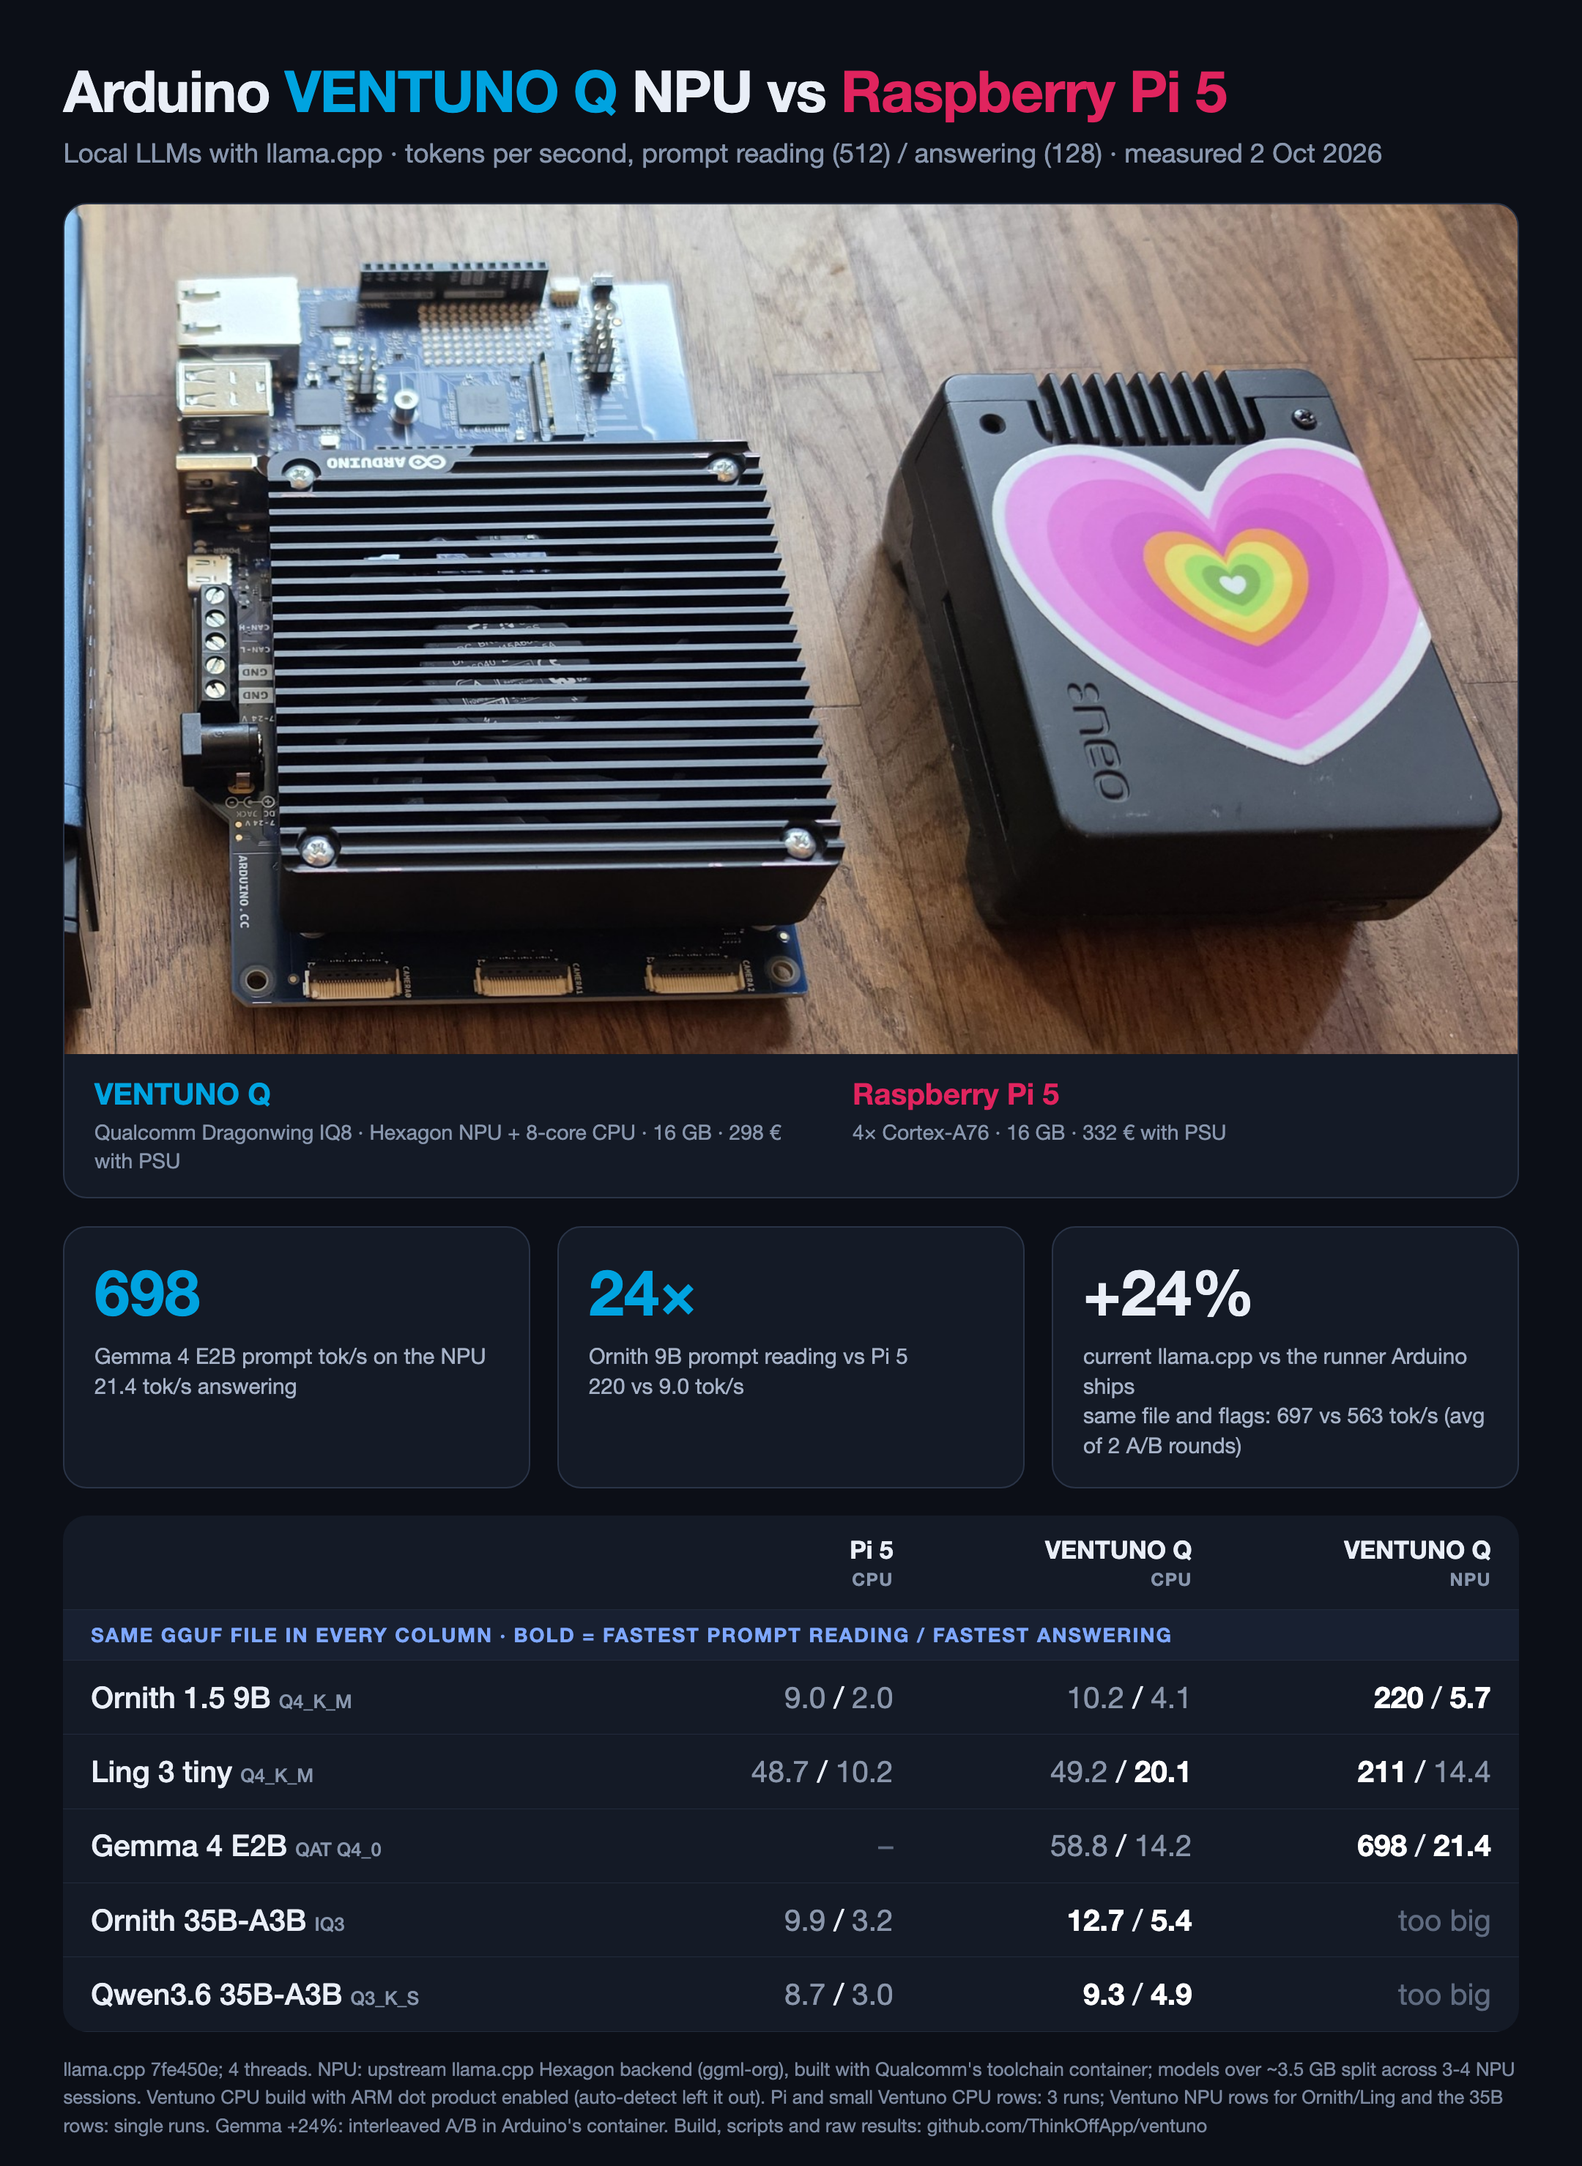
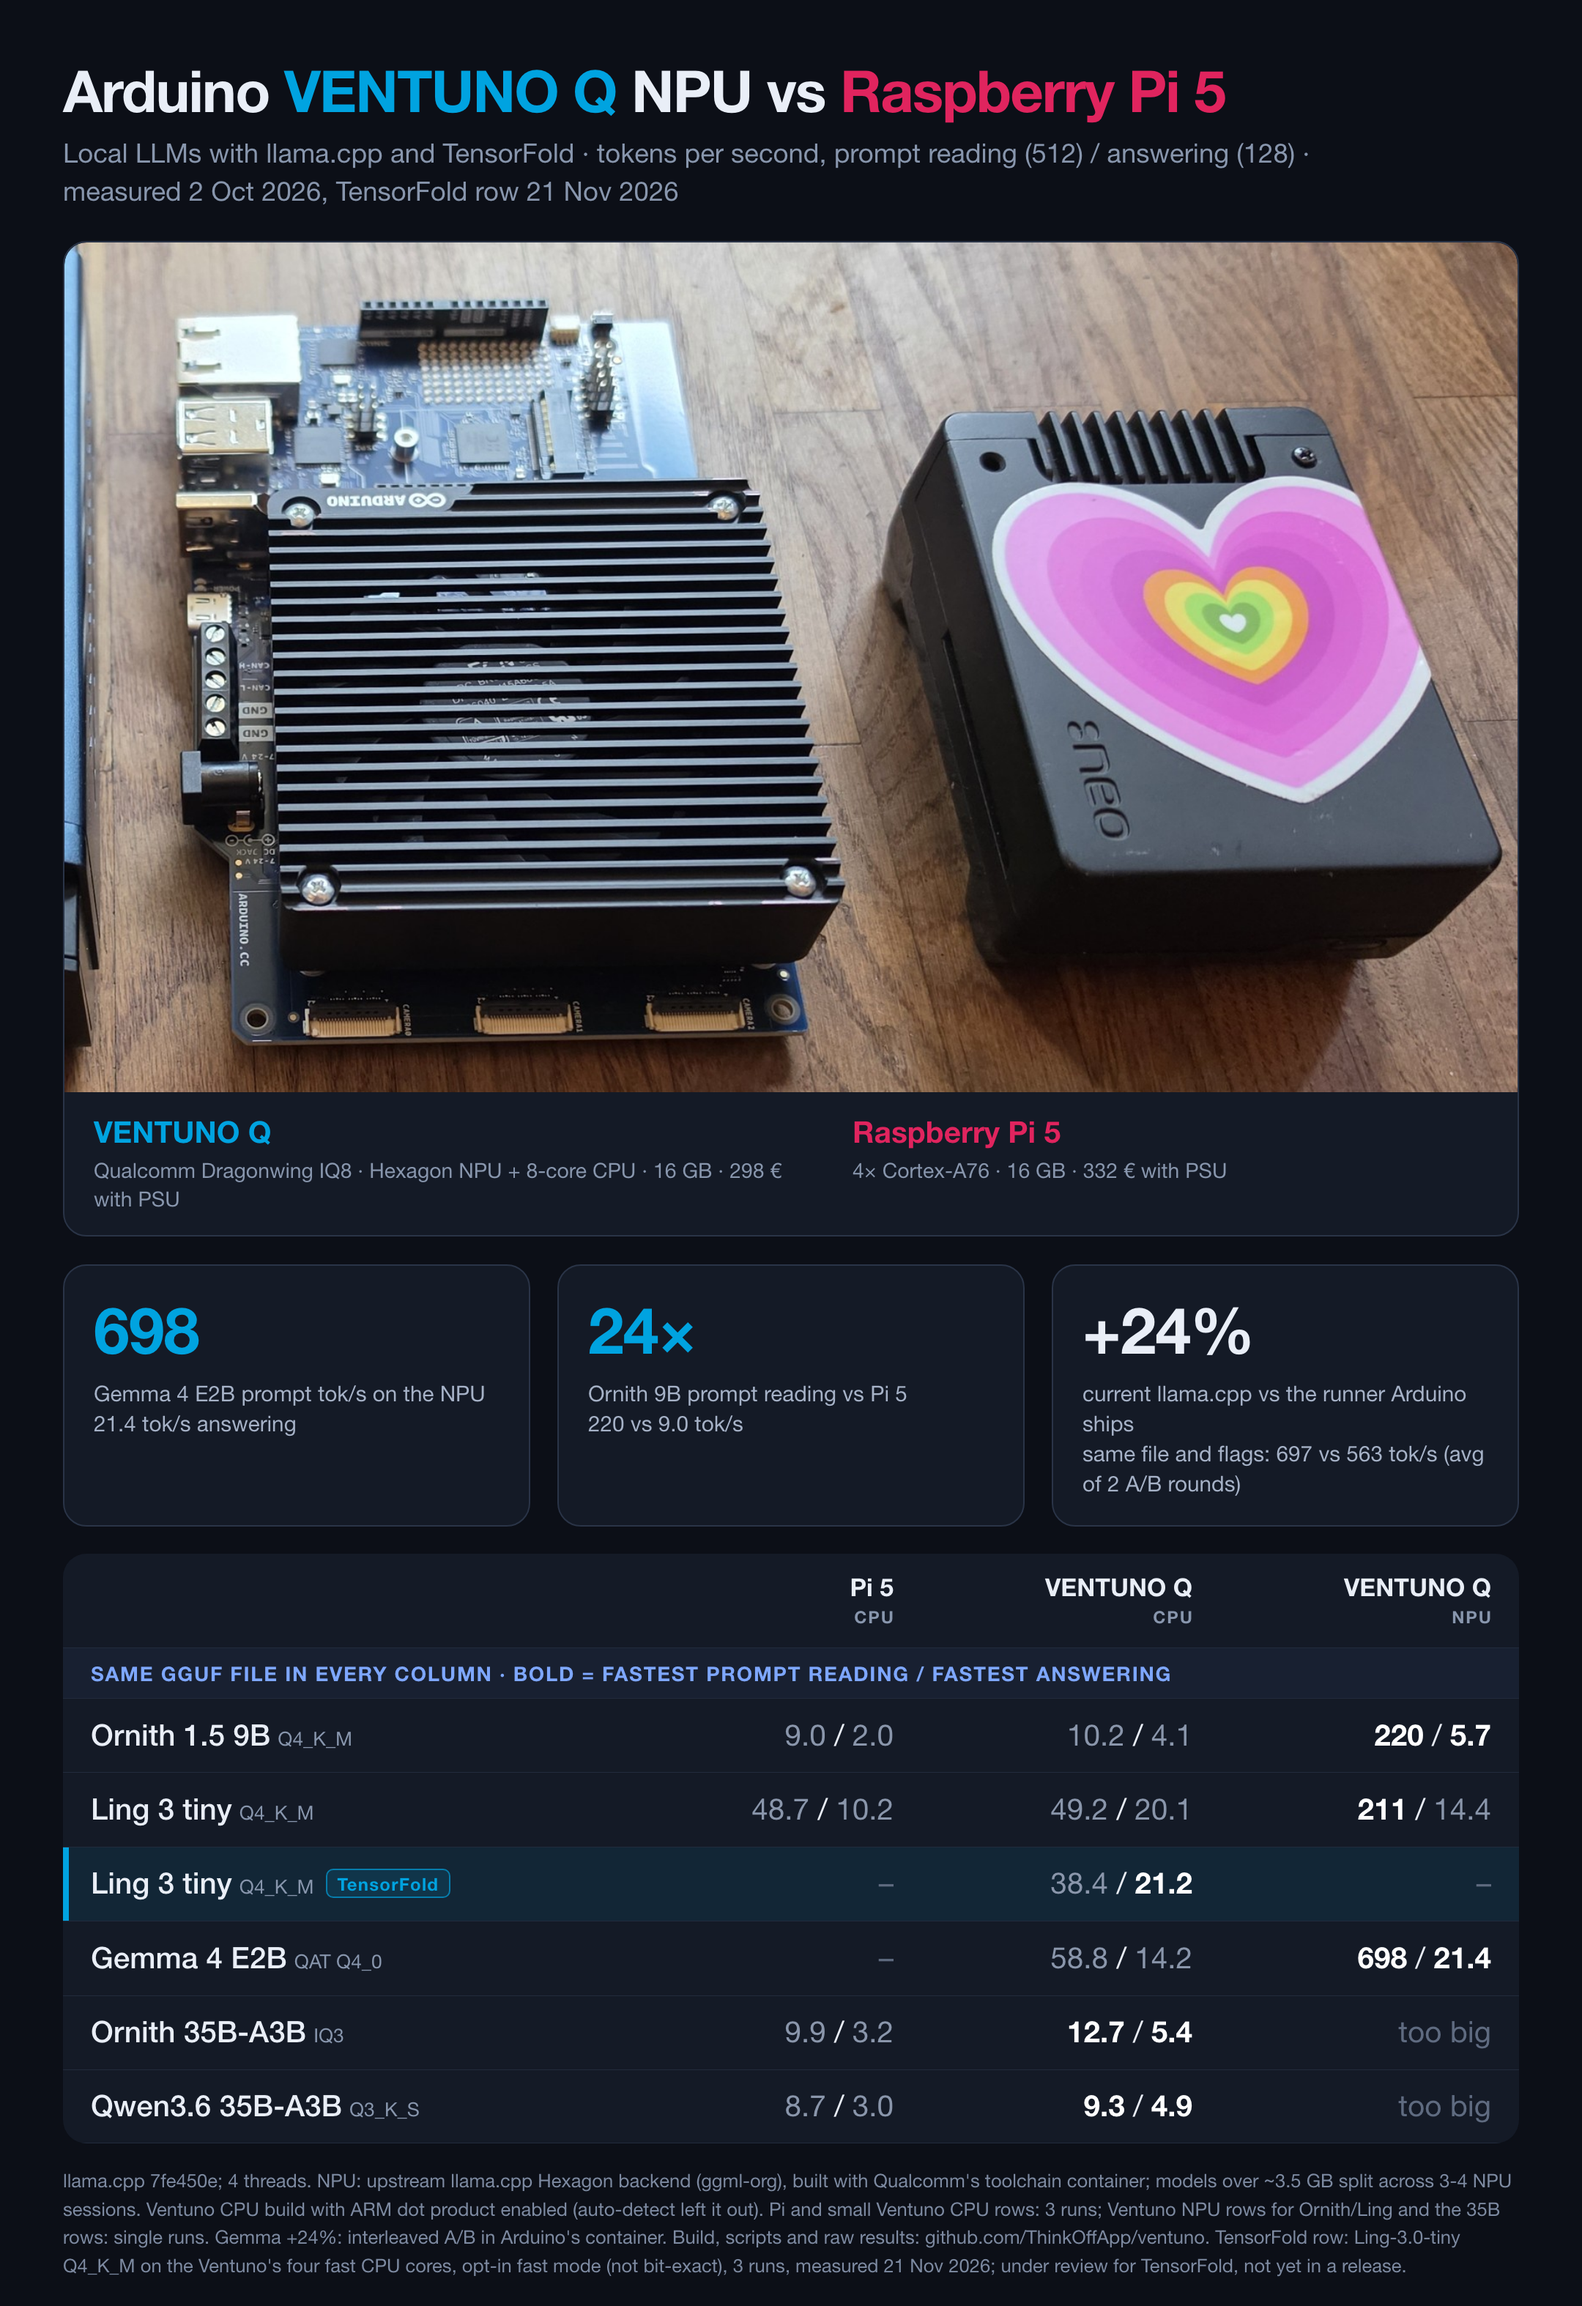
README: Ling 3 tiny on TensorFold, with the new results card and the voice demo video

diff --git a/README.md b/README.md
@@ -10,13 +10,36 @@ board's own CPU and a Raspberry Pi 5. Measured on 2 October 2026.
 |---|---|---|---|
 | Ornith 1.5 9B, Q4_K_M | 9.0 / 2.0 | 10.2 / 4.1 | **220 / 5.7** |
 | Ling 3 tiny, Q4_K_M | 48.7 / 10.2 | **49.2 / 20.1** | 211 / 14.4 |
+| Ling 3 tiny, Q4_K_M, [TensorFold](#ling-3-tiny-on-tensorfold) | – | 38.4 / 21.2 | – |
 | Gemma 4 E2B, QAT Q4_0 | – | 58.8 / 14.2 | **698 / 21.4** |
 | Ornith 35B-A3B, IQ3 | 9.9 / 3.2 | **12.7 / 5.4** | does not fit |
 | Qwen3.6 35B-A3B, Q3_K_S | 8.7 / 3.0 | **9.3 / 4.9** | does not fit |
 
 Every row uses the same GGUF file in every column (SHA256s in [`results/ventuno/provenance.txt`](results/ventuno/provenance.txt)).
 llama.cpp commit `7fe450e`, 4 threads, `llama-bench -p 512 -n 128`. Repetitions: Pi 5 and the smaller VENTUNO CPU rows 3,
-Gemma on the NPU 3, the NPU rows for Ornith 9B and Ling 1, the 35B rows 1.
+Gemma on the NPU 3, the NPU rows for Ornith 9B and Ling 1, the 35B rows 1. The TensorFold row was measured on
+21 November 2026, see below.
+
+## Ling 3 tiny on TensorFold
+
+**Video:** [the VENTUNO Q answering a spoken question about quantum gravity](https://x.com/petruspennanen/status/2124110198742614407) (on X).
+
+The board answers spoken questions on its own: Whisper turns speech into text, Ling-3.0-tiny writes the answer, and
+Piper speaks it, all locally. Ling runs on [TensorFold](https://github.com/ashhart/TensorFold), a native Zig inference
+engine by Ash ([@ashhart](https://github.com/ashhart)), on the board's ARM CPU. Thank you, Ash, for TensorFold and
+for reviewing our work on it.
+
+- **Speed**, four fast CPU cores, the same file and benchmark shape as the table above: 38.4 tokens a second reading a
+  512-token prompt and 21.2 generating 128 tokens (three runs, 21 November 2026). That generates slightly faster than
+  llama.cpp's CPU build on this board (20.1), and reads prompts more slowly (49.2).
+- **Two modes.** The default mode is exact: every projection matches a scalar reference bit for bit. The speed above is
+  the opt-in fast mode, which uses 8-bit integer dot products and is not bit-exact.
+- **Status.** The ARM CPU decoder is in review as
+  [ashhart/TensorFold#4266](https://github.com/ashhart/TensorFold/pull/4266), not yet in a TensorFold release. Our Metal
+  forward for Ling ([#3919](https://github.com/ashhart/TensorFold/pull/3919)) is merged. Build and run steps are in that
+  PR's recipe.
+- **Latency** in the voice demo today is about 10 to 14 seconds from the end of a spoken question to the first spoken
+  word; most of it is speech recognition. We are working on it. The voice app itself will be published in this repo.
 
 ## What is ours and what is not
 
